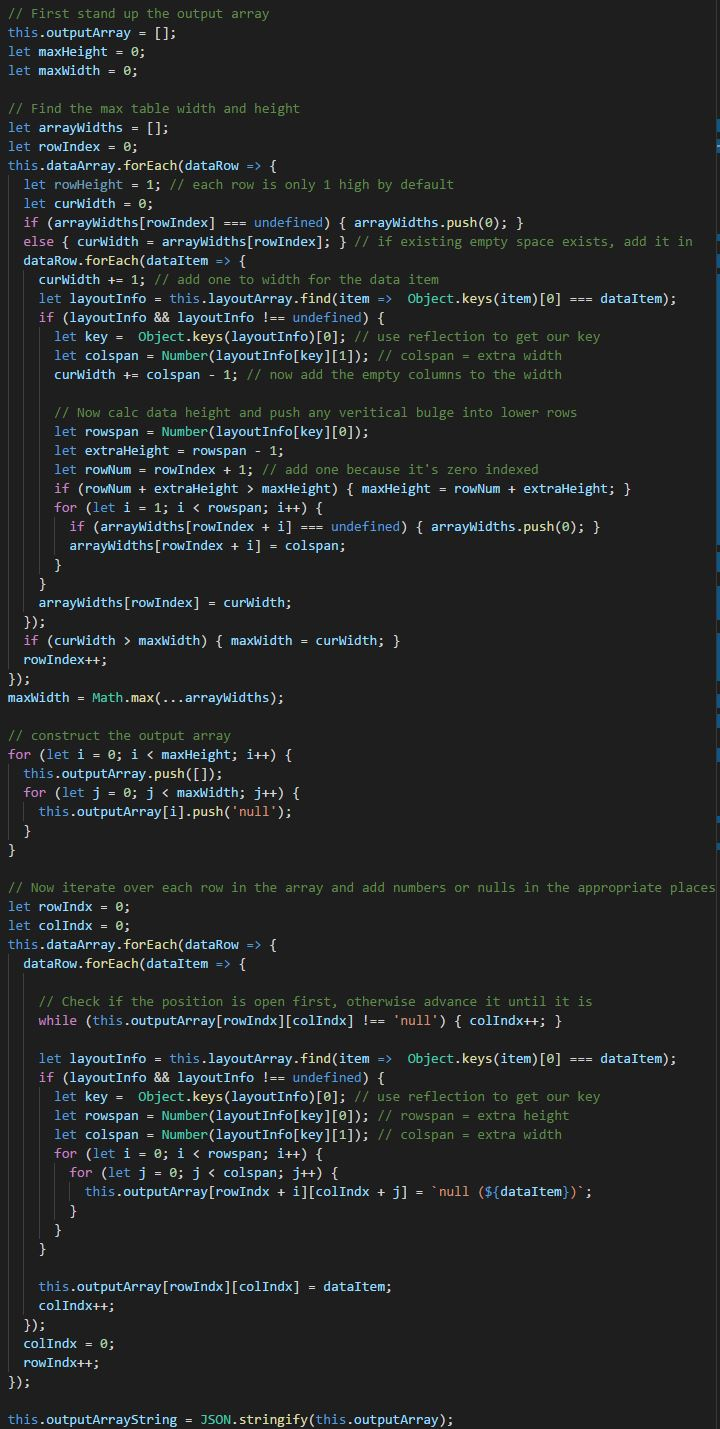
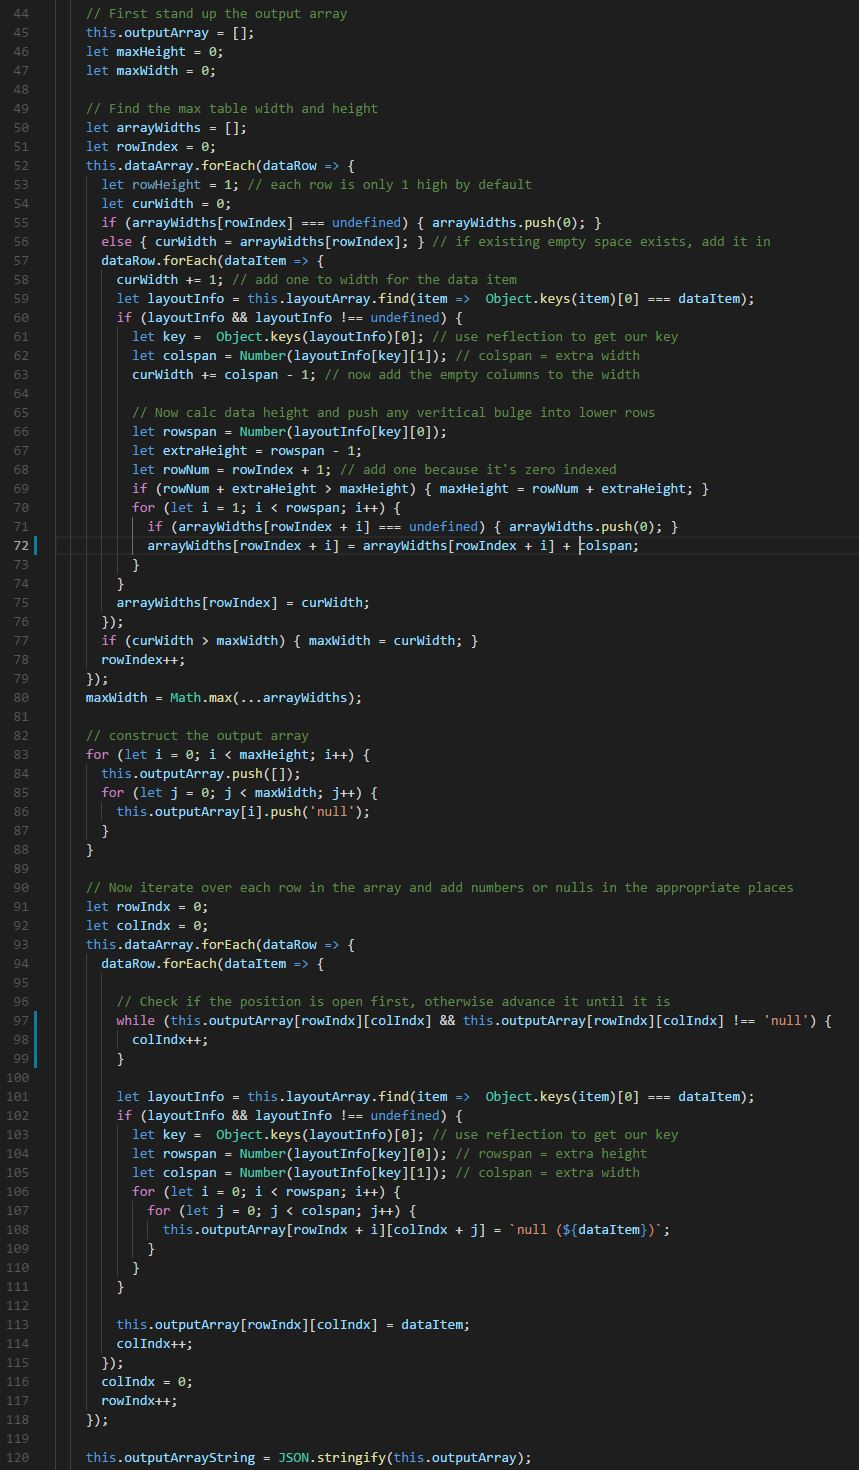
Mission Accomplished

diff --git a/src/app/components/test-widget/test-widget.component.ts b/src/app/components/test-widget/test-widget.component.ts
@@ -69,7 +69,7 @@ export class TestWidgetComponent implements OnInit {
 					if (rowNum + extraHeight > maxHeight) { maxHeight = rowNum + extraHeight; }
 					for (let i = 1; i < rowspan; i++) {
 						if (arrayWidths[rowIndex + i] === undefined) { arrayWidths.push(0); }
-						arrayWidths[rowIndex + i] = colspan;
+						arrayWidths[rowIndex + i] = arrayWidths[rowIndex + i] + colspan;
 					}
 				}
 				arrayWidths[rowIndex] = curWidth;
@@ -94,7 +94,9 @@ export class TestWidgetComponent implements OnInit {
 			dataRow.forEach(dataItem => {
 
 				// Check if the position is open first, otherwise advance it until it is
-				while (this.outputArray[rowIndx][colIndx] !== 'null') { colIndx++; }
+				while (this.outputArray[rowIndx][colIndx] && this.outputArray[rowIndx][colIndx] !== 'null') {
+					colIndx++;
+				}
 
 				let layoutInfo = this.layoutArray.find(item =>  Object.keys(item)[0] === dataItem);
 				if (layoutInfo && layoutInfo !== undefined) {

diff --git a/src/app/components/app.component.html b/src/app/components/app.component.html
@@ -45,8 +45,10 @@
 <div class="alert alert-warning clickable" role="alert" (click)="toggleAnswer()">Click here to see the answer</div>
 <div *ngIf="showAnswer" class="alert alert-primary" role="alert">
 		<p>Note: This answer is a 'more complete' solution. It not only demarks empty spaces with null, 
-			but also shows what data item any null spaces belong to.</p>
+			but also shows what data item any null spaces belong to.
+		</p>
 		<img src="assets/images/answer.jpg" alt="answer">
+		<h5 class="mt-3">See src/app/components/test-widget/test-widget.component.ts for full source.</h5>
 </div>
 
 

diff --git a/src/app/components/app.component.ts b/src/app/components/app.component.ts
@@ -8,7 +8,7 @@ import { Component } from '@angular/core';
 export class AppComponent {
 
 	// Properties
-	private showAnswer = true;
+	private showAnswer = false;
 
 	// Toggle our answer to be visible or hidden
 	private toggleAnswer() {
